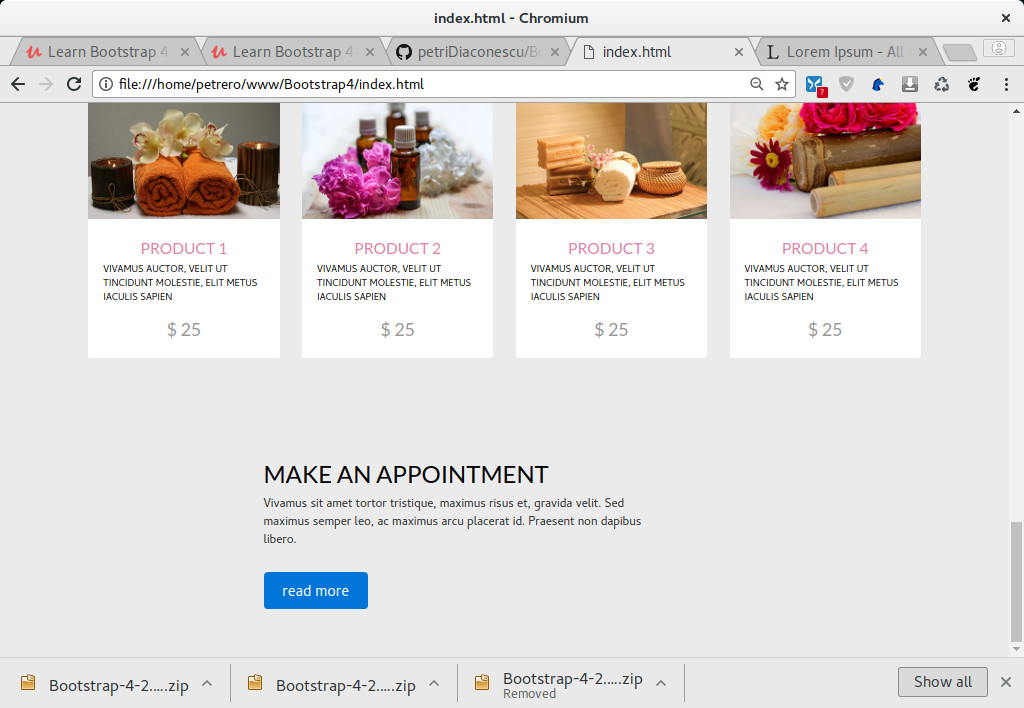
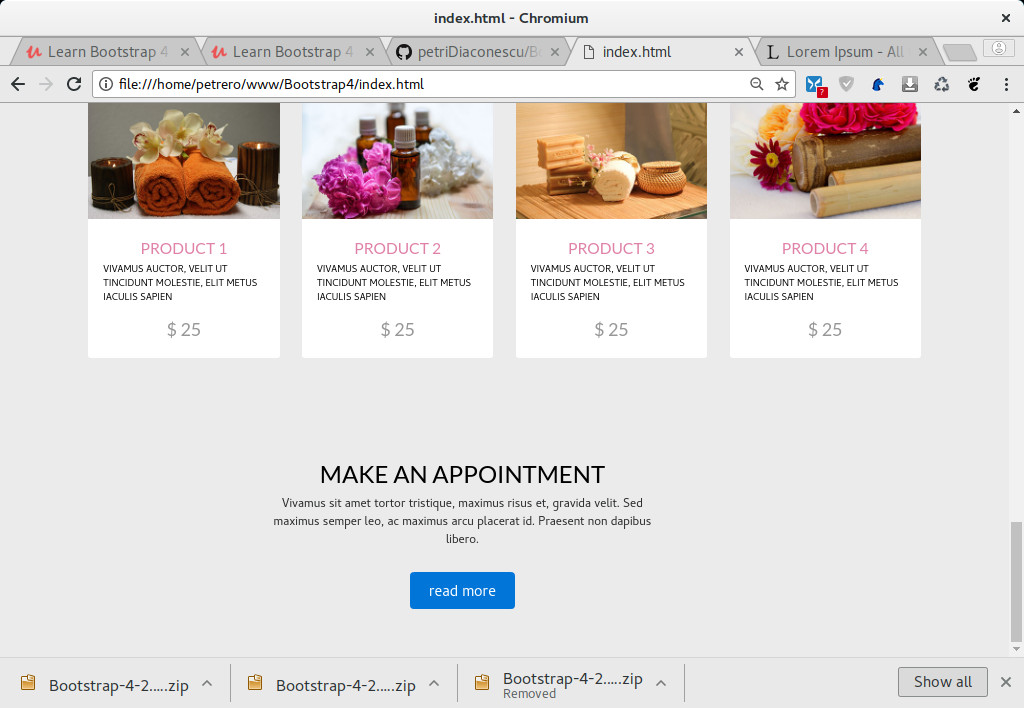
Center the content of the appointment section.

diff --git a/index.html b/index.html
@@ -276,16 +276,16 @@
     
     <div class="appointment container-fluid py-5">
       <div class="row">
-        <div class="col-12 col-md-8 offset-md-2 col-lg-5 offset-lg-3 py-3">
+        <div class="col-12 col-md-8 offset-md-2 col-lg-5 offset-lg-3 py-3 text-center">
           <h3 class="text-uppercase">make an appointment</h3>
           <p>Vivamus sit amet tortor tristique, maximus risus et, gravida velit. 
             Sed maximus semper leo, ac maximus arcu placerat id. Praesent non 
             dapibus libero.
           </p>
           <a href="" class="btn btn-primary btn-lg mt-3">read more</a>
-        </div>
-      </div>
-    </div>
+        </div><!-- col-12 -->
+      </div><!-- row -->
+    </div><!-- appointment -->
     <script src="js/jquery.slim.js"></script>
     <script src="js/tether.min.js"></script>
     <script src="js/bootstrap.min.js"></script>
